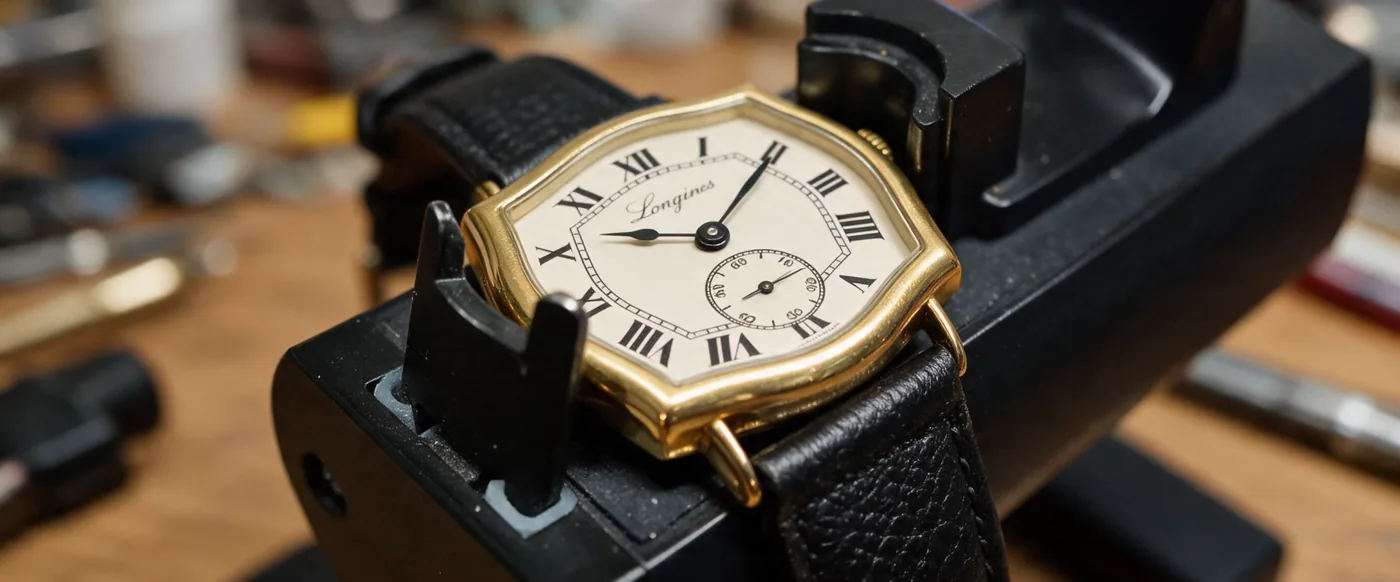
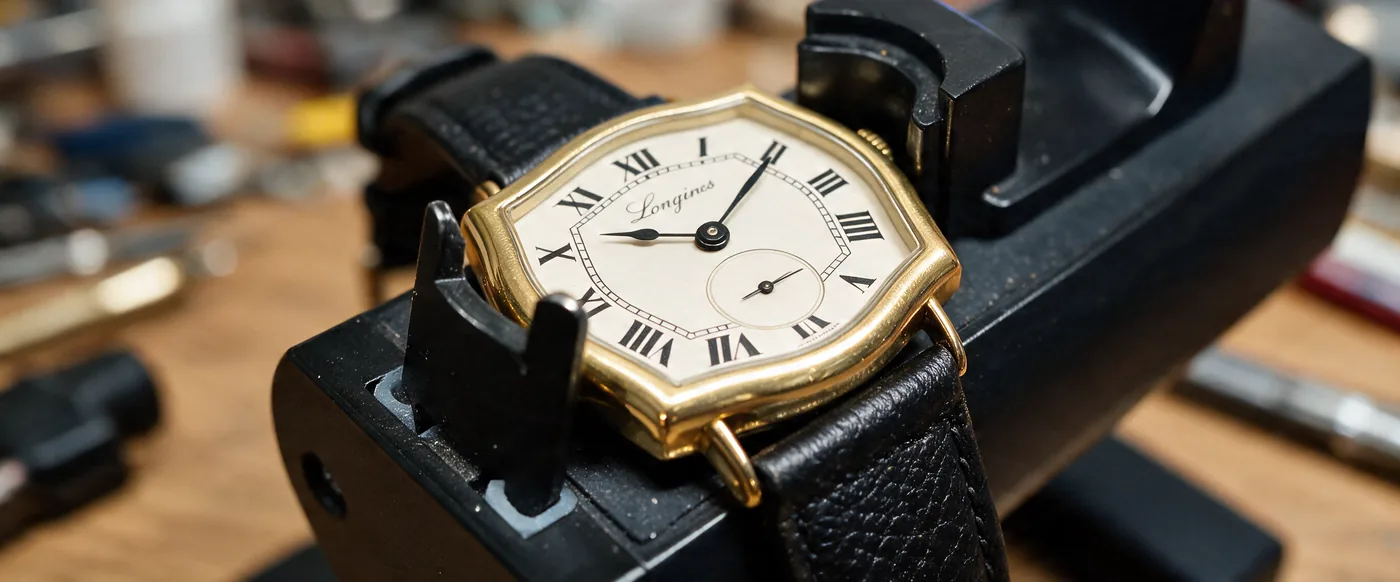
feat(pages): 각 페이지 콘텐츠 보강과 메타데이터 일원화
- 홈: 제공 서비스에 Timegrapher 카드를 가장 좌측에 추가. 카드가 4장이라 3단
  그리드에서 마지막 한 장만 다음 줄에 남으므로 2단(md) → 4단(xl)으로 변경
- Videos: 다른 도구 페이지와 같은 구독·공유 영역 추가
- About Me: 편지 맺음말 자리에 일러스트와 '빈시멍 드림' 서명 추가
- Timegrapher: 현판 문구를 '내 시계의 건강 상태를 체크해 보세요'로 바꾸고
  스몰세컨즈 인덱스를 지운 사진으로 히어로 이미지 교체
- 전 페이지의 PageHead 를 pageMeta.json 하나로 일원화

diff --git a/src/pages/Home.tsx b/src/pages/Home.tsx
@@ -1,9 +1,11 @@
 import { useNavigate } from 'react-router-dom';
 import PageHead from '../components/PageHead';
+import { PAGE_META } from '../data/pageMeta';
 import { useShare } from '../hooks/useShare';
 import { FEATURED_VIDEO } from '../data/featured';
 
 const SERVICES = [
+  { to: '/timegrapher', title: 'Timegrapher', desc: '폰으로 간편한 시계 상태 진단', img: '/images/timegrapher_img.jpg' },
   { to: '/year-finder', title: 'Year Finder', desc: '시리얼 넘버로 생산년도 확인', img: '/images/year_finder_img.png' },
   { to: '/fit-finder', title: 'Fit Finder', desc: '내 손목에 딱 맞는 시계 사이즈 추천', img: '/images/fit_finder_img.jpg' },
   { to: '/videos', title: 'Videos', desc: '빈티지 시계 리뷰와 시계 헌팅 영상', img: '/images/videos_img.jpg' },
@@ -16,11 +18,7 @@ export default function Home() {
 
   return (
     <>
-      <PageHead
-        title="Watch HIVE"
-        description="빈티지 시계 애호가를 위한 공간. Fit Finder와 Year Finder로 나에게 맞는 시계를 찾다."
-        path="/"
-      />
+      <PageHead {...PAGE_META.home} />
       <main className="container mx-auto mt-0 px-0 md:px-0 py-0">
         <section className="relative w-full min-h-[400px] md:min-h-[600px] flex items-center justify-center bg-gray-200">
           <div className="absolute inset-0 bg-cover bg-center opacity-70" style={{ backgroundImage: 'url(/images/home_img.jpg)' }}></div>
@@ -34,8 +32,9 @@ export default function Home() {
         <section className="mb-12 px-6 md:px-12 mt-12">
           <h3 className="text-3xl font-bold text-gray-800 mb-8 text-center">제공 서비스</h3>
           {/* 카드는 가로로 긴 4:3. 폭이 좁아 4:3 높이로는 제목·설명이 안 들어가는
-              구간이 있어 최소 높이를 함께 둔다. 3단은 카드가 넉넉해지는 lg 부터. */}
-          <div className="grid grid-cols-1 md:grid-cols-2 lg:grid-cols-3 gap-8">
+              구간이 있어 최소 높이를 함께 둔다. 카드가 4개라 3단으로 두면 마지막 한 장만
+              다음 줄에 남으므로, 2단(md·lg) → 4단(xl)으로 항상 줄이 꽉 차게 한다. */}
+          <div className="grid grid-cols-1 md:grid-cols-2 xl:grid-cols-4 gap-8">
             {SERVICES.map((s) => (
               <div
                 key={s.to}

diff --git a/src/pages/AboutMe.tsx b/src/pages/AboutMe.tsx
@@ -1,4 +1,5 @@
 import PageHead from '../components/PageHead';
+import { PAGE_META } from '../data/pageMeta';
 import { useShare } from '../hooks/useShare';
 import { useClipboard } from '../hooks/useClipboard';
 import PageHero from '../components/PageHero';
@@ -9,11 +10,7 @@ export default function AboutMe() {
 
   return (
     <>
-      <PageHead
-        title="About Me"
-        description="시계 애호가 빈시멍 소개. Watch HIVE를 만든 이유와 함께 나누고 싶은 이야기."
-        path="/about-me"
-      />
+      <PageHead {...PAGE_META.aboutMe} />
       {/* 원본이 2048px 이라 확대 없이 만들 수 있는 판이 여기까지다 */}
       <PageHero
         title="About Me"
@@ -29,6 +26,19 @@ export default function AboutMe() {
           <p className="text-gray-700 text-lg leading-relaxed mb-4">Watch Hive는<br />저와 같은 애호가 분들은 물론<br />현행 시계나 애플 워치를 착용하는 분들<br />그리고 막 시계에 관심을 갖기 시작한 모든 분들을 위한 공간입니다.</p>
           <p className="text-gray-700 text-lg leading-relaxed mb-4">이 곳의 모든 콘텐츠는 무료이니<br />누구나 자유롭게 이용하고, 편히 머물다 가시면 좋겠습니다.</p>
         </section>
+
+        {/* 편지의 맺음말 자리 — 위 본문과 한 덩어리로 읽히도록 붙여 둔다. */}
+        <section className="text-center mb-8 px-6 md:px-12">
+          <img
+            src="/images/standing-checking-watch.svg"
+            alt="손목시계를 확인하는 사람 일러스트"
+            width={128}
+            height={160}
+            className="mx-auto h-40 w-auto"
+          />
+          <p className="text-gray-700 text-lg mt-5">빈시멍 드림</p>
+        </section>
+
         <section className="p-8 text-center w-full px-6 md:px-12">
           <div className="flex flex-col sm:flex-row flex-wrap justify-center items-center gap-8">
             <a href="https://www.youtube.com/@seemoung" target="_blank" rel="noreferrer" className="flex flex-col items-center text-gray-800 hover:text-blue-600 transition-colors duration-200">

diff --git a/src/pages/Videos.tsx b/src/pages/Videos.tsx
@@ -1,17 +1,16 @@
 import PageHead from '../components/PageHead';
 import { useVideos } from '../hooks/useVideos';
+import { useShare } from '../hooks/useShare';
 import PageHero from '../components/PageHero';
+import { PAGE_META } from '../data/pageMeta';
 
 export default function Videos() {
   const { videos } = useVideos();
+  const { handleShare, shareMessage } = useShare();
 
   return (
     <>
-      <PageHead
-        title="Videos"
-        description="빈시멍 유튜브 채널의 최신 영상. 빈티지 시계 리뷰와 시계 헌팅 영상 모음."
-        path="/videos"
-      />
+      <PageHead {...PAGE_META.videos} />
       <PageHero
         title="Videos"
         subtitle="빈티지 시계 리뷰와 시계 헌팅 영상"
@@ -54,6 +53,15 @@ export default function Videos() {
               </div>
             ))}
           </div>
+        </section>
+
+        <section className="p-8 text-center mt-4">
+          <p className="text-gray-700 text-lg mb-6">구독과 공유는 콘텐츠 제작에 큰 힘이 됩니다.</p>
+          <div className="flex flex-col sm:flex-row flex-wrap justify-center items-center gap-4 mb-6">
+            <a href="https://www.youtube.com/@seemoung?sub_confirmation=1" target="_blank" rel="noreferrer" className="bg-gray-800 hover:bg-gray-700 text-gray-100 font-bold py-3 px-6 rounded-full shadow-md transition duration-300 ease-in-out text-base sm:text-lg w-full sm:w-auto">YouTube 채널 구독하기</a>
+            <button onClick={() => handleShare()} className="bg-gray-800 hover:bg-gray-700 text-gray-100 font-bold py-3 px-6 rounded-full shadow-md transition duration-300 ease-in-out text-base sm:text-lg w-full sm:w-auto">다른 시계 덕후에게 공유하기</button>
+          </div>
+          {shareMessage && <div className="mt-4 text-blue-600 text-sm">{shareMessage}</div>}
         </section>
       </main>
     </>

diff --git a/src/pages/Timegrapher.tsx b/src/pages/Timegrapher.tsx
@@ -1,19 +1,16 @@
 import PageHead from '../components/PageHead';
+import { PAGE_META } from '../data/pageMeta';
 import PageHero from '../components/PageHero';
 import TimegrapherTool from '../components/TimegrapherTool';
 
 export default function Timegrapher() {
   return (
     <>
-      <PageHead
-        title="Timegrapher"
-        description="시계를 마이크에 가까이 대고 소리를 들려주면 BPH, Rate, Beat Error를 측정해주는 무료 온라인 타임그래퍼."
-        path="/timegrapher"
-      />
+      <PageHead {...PAGE_META.timegrapher} />
       {/* 원본이 2704px이라 기본 폭 목록의 2800은 확대가 되므로, 확대 없이 만들 수 있는 폭만 넘긴다. */}
       <PageHero
         title="Timegrapher"
-        subtitle="시계 소리만으로 하루 오차와 비트 오차를 측정해 보세요"
+        subtitle="내 시계의 건강 상태를 체크해 보세요"
         imgBase="timegrapher_hero"
         alt="타임그래퍼 스탠드에 물려 있는 금장 빈티지 론진 시계"
         widths={[800, 1400, 2000, 2704]}

diff --git a/src/pages/YearFinder.tsx b/src/pages/YearFinder.tsx
@@ -1,5 +1,6 @@
 import { useState, useRef } from 'react';
 import PageHead from '../components/PageHead';
+import { PAGE_META } from '../data/pageMeta';
 import { useShare } from '../hooks/useShare';
 import { OMEGA_SERIALS } from '../data/serials/omega';
 import { ROLEX_SERIALS } from '../data/serials/rolex';
@@ -107,11 +108,7 @@ export default function YearFinder() {
 
   return (
     <>
-      <PageHead
-        title="Year Finder"
-        description="브랜드와 시리얼 번호로 빈티지 시계의 생산년도를 조회합니다. Rolex, Omega, IWC, Longines, Universal Genève, Seiko 지원."
-        path="/year-finder"
-      />
+      <PageHead {...PAGE_META.yearFinder} />
       <PageHero
         title="Year Finder"
         subtitle="시리얼 넘버로 빈티지 시계의 생산년도를 조회해 보세요"

diff --git a/src/pages/FitFinder.tsx b/src/pages/FitFinder.tsx
@@ -1,5 +1,6 @@
 import { useState, useRef } from 'react';
 import PageHead from '../components/PageHead';
+import { PAGE_META } from '../data/pageMeta';
 import { useShare } from '../hooks/useShare';
 import { SIZE_CHART } from '../data/sizeChart';
 import PageHero from '../components/PageHero';
@@ -84,11 +85,7 @@ export default function FitFinder() {
 
   return (
     <>
-      <PageHead
-        title="Fit Finder"
-        description="손목 단면 너비로 나에게 어울리는 시계 케이스·러그 사이즈를 계산합니다."
-        path="/fit-finder"
-      />
+      <PageHead {...PAGE_META.fitFinder} />
       <PageHero
         title="Fit Finder"
         subtitle="손목에 가장 조화로운 케이스·러그 사이즈를 찾아보세요"
